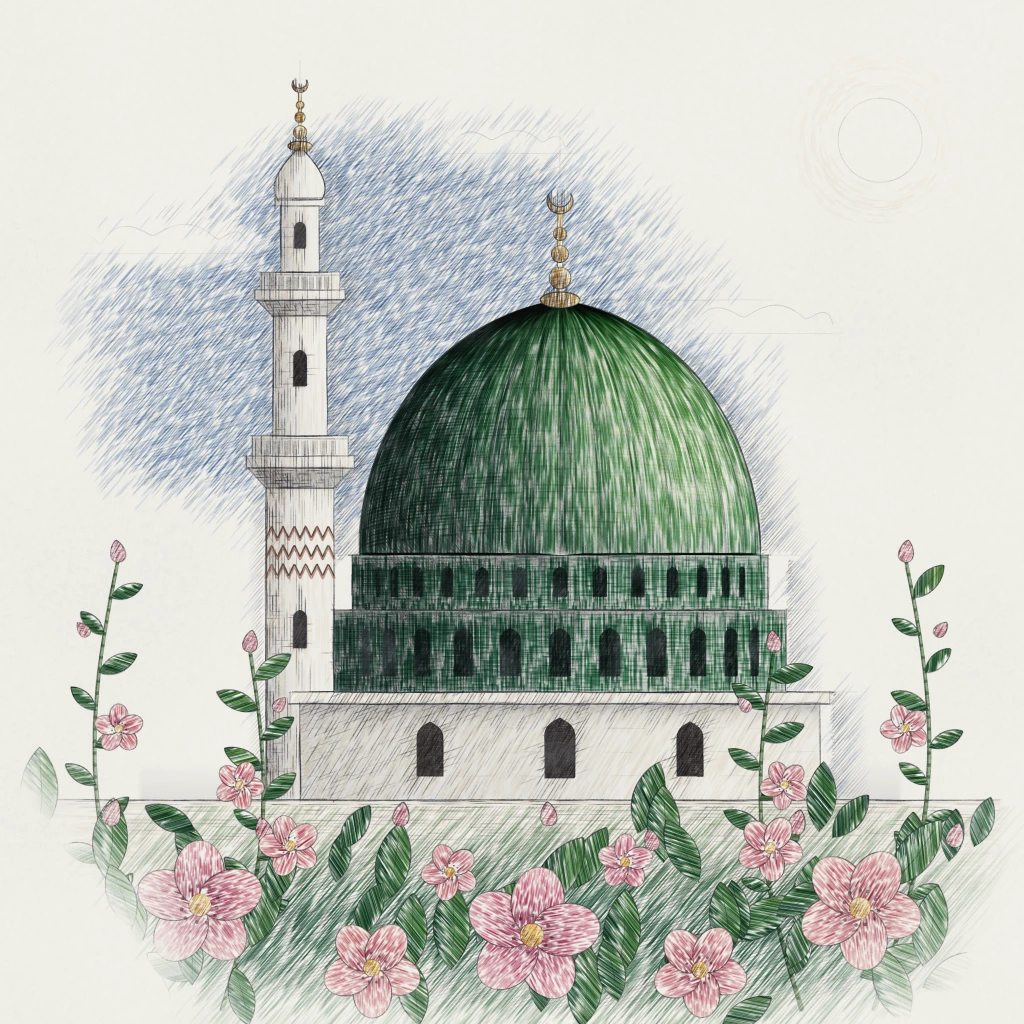
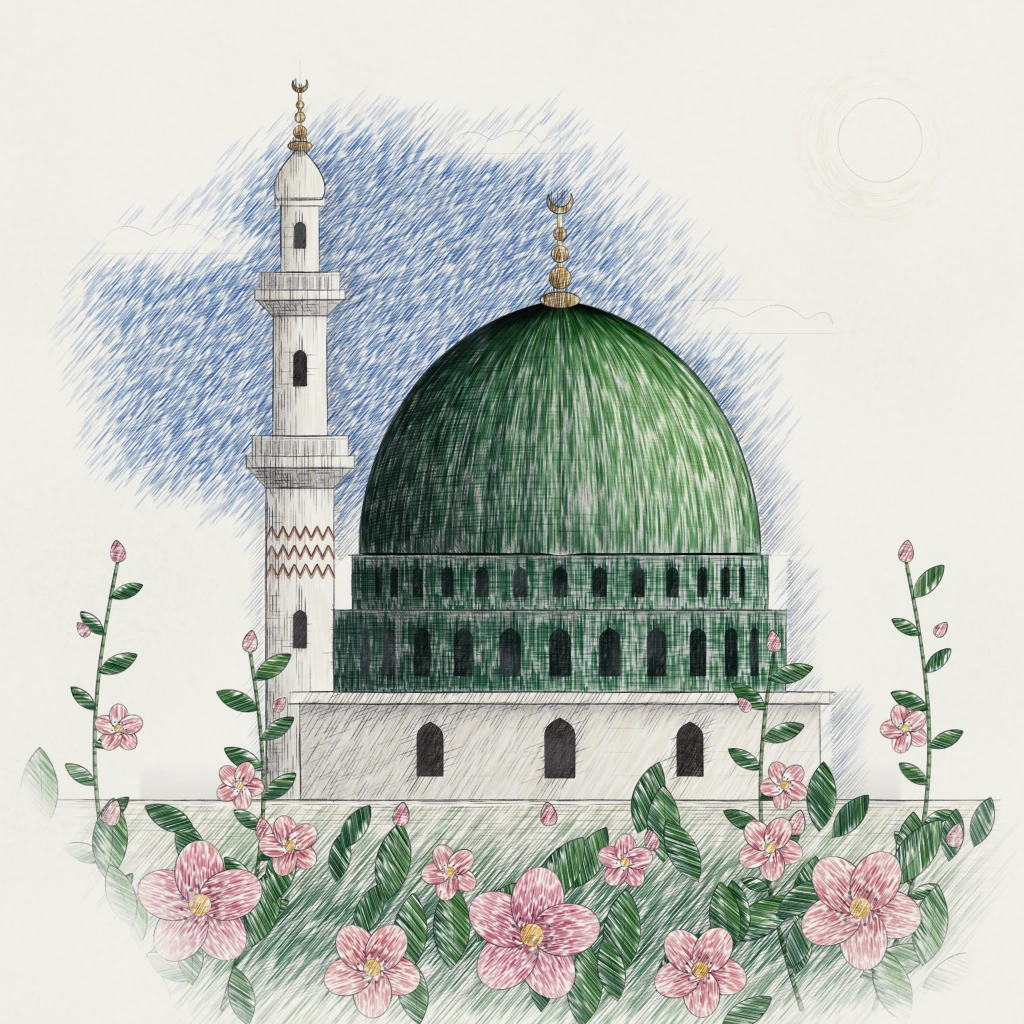
Atölye: ikinci tur gözden geçirmelerinin ara kaydı
Claude-Session: https://claude.ai/code/session_01Q8CfoBGMPN7gfLWQYpMs1J

diff --git a/atolye/stiller/S-056-kuru-boya/ornek.html b/atolye/stiller/S-056-kuru-boya/ornek.html
@@ -400,7 +400,7 @@
   const bulutGovde = (x, y) => {
     let m = 0;
     for (const [bx, by, s] of bulutlar) {
-      const dx = (x - bx) / (95 * s), dy = (y - by) / (y < by ? 30 * s : 15 * s);
+      const dx = (x - bx) / (112 * s), dy = (y - by) / (y < by ? 40 * s : 19 * s);
       const d = Math.hypot(dx, dy) + (nD(x / 22, y / 22) - 0.5) * 0.45;
       m = Math.max(m, sstep(1.0, 0.55, d));
     }
@@ -454,18 +454,18 @@
   katman((x) => taraK(x, { bx: gokBx, ic: gokIc, aci: -0.15, aciJ: 0.1, aralik: 2.0, boy: 30, kal: 1.7, alfa: 0.8, renk: hex('#FFFBF0'), obek: 24 }, r),
     { sil: gokSil, bx: gokBx, opq: 0.6, maske: harita((x, y) => (y < 800 ? bulutGovde(x, y) * kenar(x, y, false) * 0.95 : 0)) });
   // 8) bulutların güneşe bakan üst kenarı şeftali
-  katman((x) => taraK(x, { bx: gokBx, ic: gokIc, aci: -0.12, aciJ: 0.1, aralik: 2.4, boy: 22, kal: 1.4, alfa: 0.6, renk: hex('#F8B07E'), obek: 20 }, r),
-    { sil: gokSil, bx: gokBx, guc: 1.1, maske: harita((x, y) => (y < 800 ? bulutGovde(x, y) * sstep(0.3, 0.9, bulutGovde(x - 10, y + 9) - bulutGovde(x + 10, y - 9) + 0.5) * 0.7 : 0)) });
+  katman((x) => taraK(x, { bx: gokBx, ic: gokIc, aci: -0.12, aciJ: 0.1, aralik: 2.4, boy: 22, kal: 1.4, alfa: 0.5, renk: hex('#F8B07E'), obek: 20 }, r),
+    { sil: gokSil, bx: gokBx, guc: 0.8, maske: harita((x, y) => (y < 800 ? bulutGovde(x, y) * sstep(0.3, 0.9, bulutGovde(x - 10, y + 9) - bulutGovde(x + 10, y - 9) + 0.5) * 0.7 : 0)) });
 
   // ================================================================ ZEMİN (koyu sarı toprak, turuncu ve menekşe gölgeler)
   const zBx = [0, 790, W, W];
   const ZEM = harita((x, y) => (y >= 798 ? kenar(x, y, true) : 0));
-  katman((x) => taraK(x, { bx: zBx, aci: -0.12, aciJ: 0.1, aralik: 2.3, boy: 36, kal: 1.55, alfa: 0.75, renk: hex('#F3BE4A'), obek: 26 }, r),
-    { sil: [MK.yapi, MK.bitki], bx: zBx, guc: 1.35, maske: ZEM });
-  katman((x) => taraK(x, { bx: zBx, aci: -2.6, aciJ: 0.15, aralik: 2.6, boy: 28, kal: 1.45, alfa: 0.62, renk: hex('#E2762E'), obek: 24 }, r),
-    { sil: [MK.yapi, MK.bitki], bx: zBx, guc: 1.3, maske: harita((x, y) => ZEM[y * W + x] * (0.35 + 0.65 * sstep(0.42, 0.68, nE(x / 60, y / 40)))) });
-  katman((x) => taraK(x, { bx: zBx, aci: -0.4, aciJ: 0.12, aralik: 2.7, boy: 26, kal: 1.4, alfa: 0.6, renk: hex('#A84A2C'), obek: 22 }, r),
-    { sil: [MK.yapi, MK.bitki], bx: zBx, guc: 1.3, maske: harita((x, y) => ZEM[y * W + x] * (0.25 + 0.75 * sstep(880, 1010, y)) * sstep(0.45, 0.72, nD(x / 45 + 5, y / 35))) });
+  katman((x) => taraK(x, { bx: zBx, aci: -0.12, aciJ: 0.1, aralik: 2.3, boy: 36, kal: 1.55, alfa: 0.7, renk: hex('#F2C463'), obek: 26 }, r),
+    { sil: [MK.yapi, MK.bitki], bx: zBx, guc: 1.2, maske: ZEM });
+  katman((x) => taraK(x, { bx: zBx, aci: -2.6, aciJ: 0.15, aralik: 2.6, boy: 28, kal: 1.45, alfa: 0.5, renk: hex('#E8894A'), obek: 24 }, r),
+    { sil: [MK.yapi, MK.bitki], bx: zBx, guc: 0.95, maske: harita((x, y) => ZEM[y * W + x] * (0.35 + 0.65 * sstep(0.42, 0.68, nE(x / 60, y / 40)))) });
+  katman((x) => taraK(x, { bx: zBx, aci: -0.4, aciJ: 0.12, aralik: 2.7, boy: 26, kal: 1.4, alfa: 0.5, renk: hex('#A84A2C'), obek: 22 }, r),
+    { sil: [MK.yapi, MK.bitki], bx: zBx, guc: 0.9, maske: harita((x, y) => ZEM[y * W + x] * (0.25 + 0.75 * sstep(880, 1010, y)) * sstep(0.45, 0.72, nD(x / 45 + 5, y / 35))) });
   katman((x) => taraK(x, { bx: zBx, aci: -0.05, aciJ: 0.1, aralik: 2.5, boy: 40, kal: 1.45, alfa: 0.66, renk: hex('#6B4DB4'), obek: 26 }, r),
     { sil: [MK.yapi, MK.bitki], bx: zBx, guc: 1.35, maske: harita((x, y) => ZEM[y * W + x] * Math.max(sstep(836, 802, y) * sstep(230, 320, x) * sstep(870, 790, x), 0.5 * sstep(930, 1015, y))) });
 
@@ -596,8 +596,9 @@
     }
   }
   const yBx = [0, 500, W, W];
-  katman((x) => yaprakCiz(x, hex('#A9C94C'), (yp) => 0.8, { aralik: 1.9, kal: 1.5, yari: [1, 0.8] }), { sil: [MK.onBitki], bx: yBx });
-  katman((x) => yaprakCiz(x, hex('#3F8C40'), (yp) => (yp.uzunluk > 50 ? 0.85 : 0.6), { aralik: 2.0, kal: 1.45, aci: 0.5, yari: [0.45, 1] }), { sil: [MK.onBitki], bx: yBx });
+  katman((x) => { B.yapraklar.forEach((yp, i) => { x.save(); x.globalCompositeOperation = 'destination-out'; x.fillStyle = '#000'; x.fill(yaprakYollari[i]); x.restore(); x.save(); x.clip(yaprakYollari[i]); const L = yp.uzunluk; taraK(x, { bx: [yp.x - L * 1.1, yp.y - L * 1.1, yp.x + L * 1.1, yp.y + L * 1.1], aci: yp.aci + 0.25, aciJ: 0.1, aralik: 2.0, boy: Math.max(14, L * 0.4), kal: 1.5, alfa: 0.8, renk: hex('#D3E46A'), obek: Math.max(10, L * 0.3), sik: 0.5 }, r); x.restore(); }); }, { sil: [MK.onBitki], bx: yBx, guc: 1.1 });
+  katman((x) => yaprakCiz(x, hex('#8CC043'), (yp) => 0.85, { aralik: 1.9, kal: 1.55, yari: [0.9, 0.9] }), { sil: [MK.onBitki], bx: yBx });
+  katman((x) => yaprakCiz(x, hex('#2F9446'), (yp) => (yp.uzunluk > 50 ? 0.9 : 0.7), { aralik: 2.0, kal: 1.5, aci: 0.5, yari: [0.55, 1] }), { sil: [MK.onBitki], bx: yBx, guc: 1.1 });
   katman((x) => yaprakCiz(x, hex('#1D5238'), (yp) => (yp.uzunluk > 50 ? 0.75 : 0.35), { aralik: 2.4, kal: 1.4, aci: 0.75, yari: [0.1, 0.9] }), { sil: [MK.onBitki], bx: yBx });
   katman((x) => yaprakCiz(x, hex('#2F3F82'), (yp) => (yp.y > 880 ? 0.6 : 0.15), { aralik: 3.0, kal: 1.3, aci: 0.9, yari: [0, 0.8] }), { sil: [MK.onBitki], bx: yBx });
   katman((x) => yaprakCiz(x, hex('#F0E27A'), (yp, i) => (i % 4 === 1 ? 0.6 : 0.25), { aralik: 2.6, kal: 1.4, aci: 0.4, yari: [0.9, 0] }), { sil: [MK.onBitki], bx: yBx, opq: 0.35 });
@@ -633,9 +634,10 @@
     });
   }
   const cBx = [0, 500, W, W];
-  katman((x) => tacCiz(x, hex('#F6A6C2'), (c, e, yon) => 0.75 + 0.2 * (yon < 0), { aralik: 1.5, kal: 1.5, boy: [0.55, 0.45] }), { bx: cBx });
-  katman((x) => tacCiz(x, hex('#D2427E'), (c, e, yon) => 0.8, { aralik: 1.8, kal: 1.5, boy: [0.2, 0.25] }), { bx: cBx });
-  katman((x) => tacCiz(x, hex('#A898D8'), (c, e, yon) => (yon < -0.1 ? 0.75 : 0.0), { aralik: 2.0, kal: 1.4, boy: [0.5, 0.5] }), { bx: cBx });
+  katman((x) => tacCiz(x, hex('#F7A2C0'), (c, e, yon) => 0.85 + 0.15 * (yon < 0), { aralik: 1.4, kal: 1.6, boy: [0.8, 0.35] }), { bx: cBx, guc: 1.15 });
+  katman((x) => tacCiz(x, hex('#D8387A'), (c, e, yon) => 0.85, { aralik: 1.7, kal: 1.55, boy: [0.3, 0.3] }), { bx: cBx, guc: 1.1 });
+  katman((x) => tacCiz(x, hex('#9A7FD6'), (c, e, yon) => (yon < -0.1 ? 0.8 : yon < 0.3 ? 0.35 : 0.0), { aralik: 2.0, kal: 1.45, boy: [0.55, 0.45] }), { bx: cBx });
+  katman((x) => tacCiz(x, hex('#FFF4F8'), (c, e, yon) => (yon > 0.2 ? 0.85 : 0.0), { aralik: 1.8, kal: 1.8, boy: [0.75, 0.3] }), { bx: cBx, opq: 0.6 });
   katman((x) => tacCiz(x, hex('#8E2A62'), (c, e, yon) => 0.85, { aralik: 2.4, kal: 1.3, boy: [0.06, 0.12] }), { bx: cBx });
   // göbekler
   katman((x) => { for (const c of B.cicekler) { x.save(); x.beginPath(); x.arc(c.x, c.y, c.r * 0.22, 0, 7); x.clip(); taraK(x, { bx: [c.x - c.r * 0.3, c.y - c.r * 0.3, c.x + c.r * 0.3, c.y + c.r * 0.3], aci: egik, aralik: 1.5, boy: 12, kal: 1.4, alfa: 0.9, renk: hex('#F5C832'), obek: 10, sik: 0.4 }, r); x.restore(); } },
@@ -646,7 +648,7 @@
     { bx: cBx, cila: false });
 
   // ================================================================ KONTUR ÇİZGİLERİ (net, ince, renkli kalemle)
-  const kontur = (fn, bx) => katman(fn, { bx: bx || [0, 0, W, W], cila: false, yumus: 0.12 });
+  const kontur = (fn, bx) => { KALINLIK = 1.8; katman(fn, { bx: bx || [0, 0, W, W], cila: false, yumus: 0.12, guc: 1.1 }); KALINLIK = 1; };
   // kubbe ve kaburgalar
   kontur((x) => {
     const kn = SAHNE.kubbeNoktalari(120);

diff --git a/atolye/stiller/S-004-karakalem/ornek.html b/atolye/stiller/S-004-karakalem/ornek.html
@@ -457,8 +457,8 @@ const RENK = {
   altin: rampa([[0, [232, 204, 126]], [0.5, [206, 160, 74]], [1, [154, 112, 52]]]), // aşı boyası altın
   yaprak: rampa([[0.15, [150, 190, 100]], [0.45, [92, 152, 86]], [0.85, [48, 110, 80]]]),
   gul: rampa([[0, [234, 186, 190]], [0.45, [214, 136, 152]], [1, [172, 88, 116]]]), // tozlu gül
-  gok: [118, 152, 198],
-  gokKoyu: [100, 130, 182],
+  gok: [104, 146, 204],
+  gokKoyu: [92, 124, 186],
   sicak: [232, 208, 156],
   kum: [226, 214, 192],
 };
@@ -547,8 +547,8 @@ function gok() {
     for (const [bx, by, s] of bulutlar) t *= smooth(0.45, 1.3, ((x - bx) / (92 * s)) ** 2 + ((y - by + 9 * s) / (21 * s)) ** 2);
     return clamp(t);
   };
-  tara(duzAile(0, 0, 1024, 800, -0.86, 3.4), { esik: 0.08, aralik: 0.8, alfa: 0.3, kalin: 0.9, minL: 18, maxL: 46, tonF: gokT, kirp });
-  boya(duzAile(0, 0, 1024, 800, -0.86, 2.0), { esik: 0.06, aralik: 0.6, alfa: 0.75, kalin: 1.5, minL: 18, maxL: 44, tonF: gokT, renkF: () => RENK.gok, kirp });
+  tara(duzAile(0, 0, 1024, 800, -0.86, 3.4), { esik: 0.08, aralik: 0.8, alfa: 0.26, kalin: 0.9, minL: 18, maxL: 46, tonF: gokT, kirp });
+  boya(duzAile(0, 0, 1024, 800, -0.86, 1.7), { esik: 0.06, aralik: 0.55, alfa: 0.85, kalin: 1.5, minL: 18, maxL: 44, tonF: gokT, renkF: () => RENK.gok, kirp });
   boya(duzAile(0, 0, 1024, 800, -0.3, 2.8), { esik: 0.4, aralik: 0.5, alfa: 0.45, kalin: 1.3, minL: 18, maxL: 46, tonF: gokT, renkF: () => RENK.gokKoyu, kirp });
   // güneşin çevresinde, kalemin dairesel vuruşlarıyla çok açık, sıcak bir hale; güneşin kendisi kâğıdın beyazı
   const gunT = (x, y) => { const d = Math.hypot(x - 880, y - 140); return 0.3 * Math.exp(-(((d - 62) / 22) ** 2)) * smooth(44, 54, d); };
